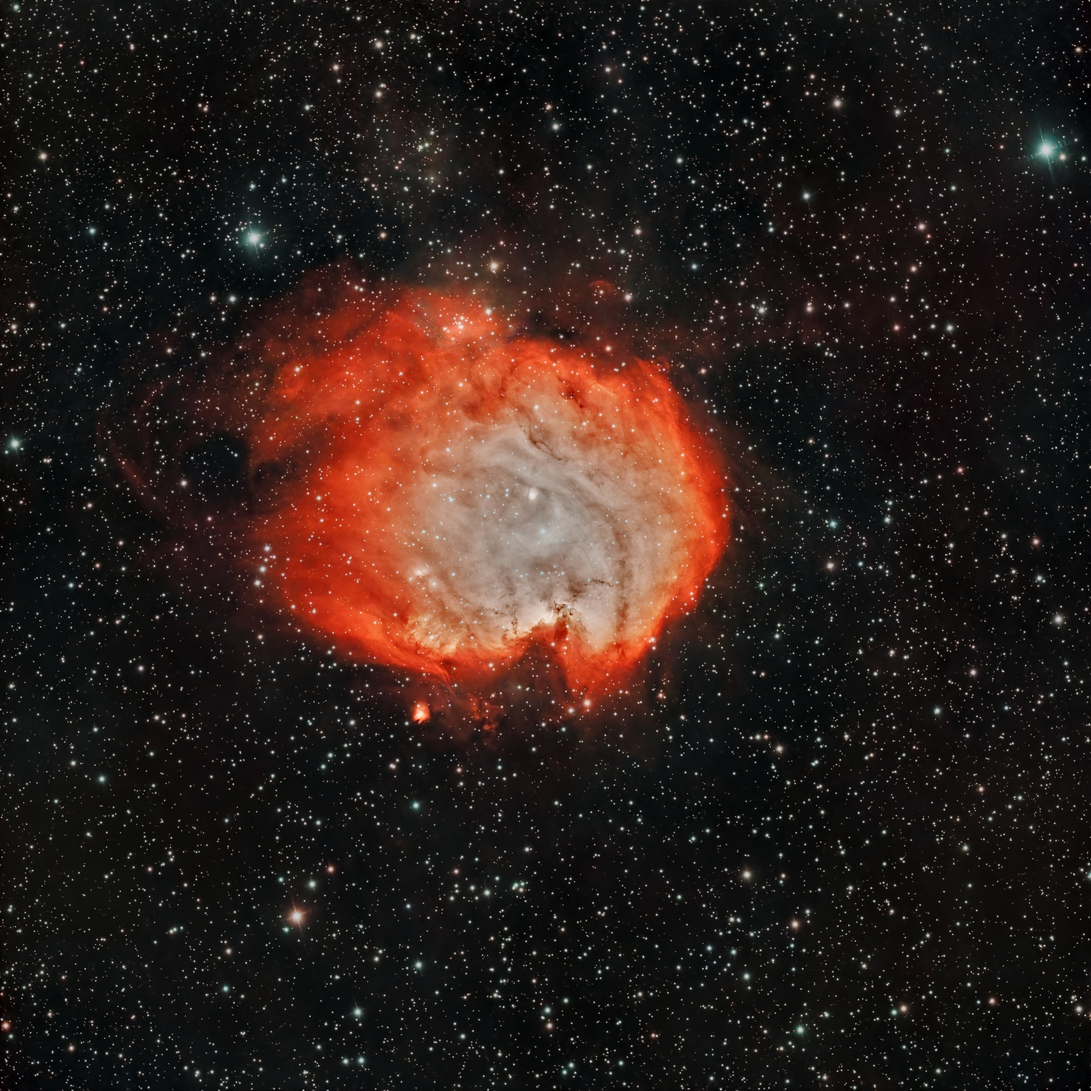
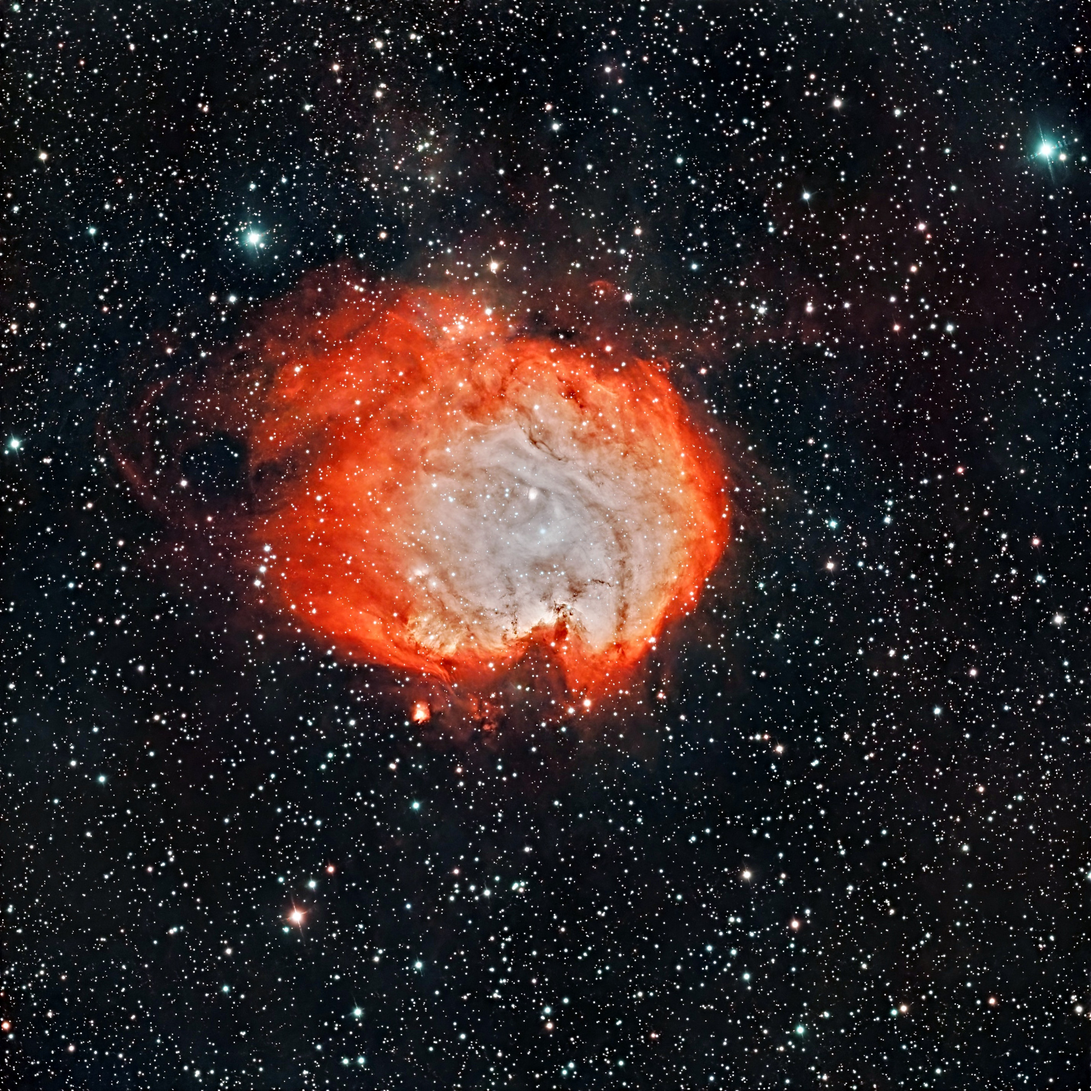
Monkey Head: Flame-style finish

diff --git a/monkey-head/index.html b/monkey-head/index.html
@@ -7,7 +7,7 @@
 <meta name="description" content="A star-forming cloud in Orion whose dark dust lanes trace the profile of a monkey&#x27;s head.">
 <meta property="og:title" content="NGC 2174 · Monkey Head Nebula · Night Sky">
 <meta property="og:description" content="A star-forming cloud in Orion whose dark dust lanes trace the profile of a monkey&#x27;s head.">
-<meta property="og:image" content="https://etotman.github.io/astro-gallery/img/monkey-head/display.jpg?v=4cce66d7"><meta name="twitter:card" content="summary_large_image">
+<meta property="og:image" content="https://etotman.github.io/astro-gallery/img/monkey-head/display.jpg?v=fe3655f9"><meta name="twitter:card" content="summary_large_image">
 <meta name="theme-color" content="#07080b">
 <link rel="icon" href="../assets/icon.svg" type="image/svg+xml">
 <link rel="stylesheet" href="../assets/style.css?v=bd09f262">
@@ -18,8 +18,8 @@
 <div class="layout">
 <div class="col">
 <figure class="hero">
-  <button class="zoom" type="button" data-full="../img/monkey-head/full.jpg?v=e4da7105" data-w="2857" data-h="2857" aria-label="Open full resolution">
-    <img src="../img/monkey-head/display.jpg?v=4cce66d7" width="2400" height="2400" alt="NGC 2174 · Monkey Head Nebula">
+  <button class="zoom" type="button" data-full="../img/monkey-head/full.jpg?v=b51c069d" data-w="2857" data-h="2857" aria-label="Open full resolution">
+    <img src="../img/monkey-head/display.jpg?v=fe3655f9" width="2400" height="2400" alt="NGC 2174 · Monkey Head Nebula">
   </button>
   <figcaption>Click the image for full resolution · 2857 × 2857 px</figcaption>
 </figure>
@@ -41,8 +41,8 @@
 </tr></tbody>
   </table></div>
 </section>
-  <section class="block"><h2>Processing</h2><p>Reprocessed 2026-11 from the linear stack: GraXpert AI background extraction, plate solve + SPCC, BlurXTerminator, NoiseXTerminator, stretch, StarXTerminator; starless layer pushed with saturation and local contrast; colour noise cleaned; stars screened back.</p></section>
-  <p class="dl"><a href="../img/monkey-head/full.jpg?v=e4da7105" download="monkey-head.jpg">Download full resolution (1.6 MB)</a></p>
+  <section class="block"><h2>Processing</h2><p>Reprocessed 2026-11 from the linear stack: GraXpert AI background extraction, plate solve + SPCC, BlurXTerminator, NoiseXTerminator, stretch, StarXTerminator; starless layer pushed with saturation and local contrast; colour noise cleaned; stars screened back. Final colour and tone in the style of the Flame + Horsehead edit: a cooler sky, lifted midtones, and increased saturation and local contrast.</p></section>
+  <p class="dl"><a href="../img/monkey-head/full.jpg?v=b51c069d" download="monkey-head.jpg">Download full resolution (2.2 MB)</a></p>
 </main>
 </div>
 <aside class="glance">

diff --git a/index.html b/index.html
@@ -139,8 +139,8 @@
   <img src="img/ngc2359/thumb.jpg?v=8199eecd" width="900" height="900" alt="NGC 2359 · Thor&#x27;s Helmet" loading="lazy" decoding="async">
   <span class="cap"><strong>NGC 2359 · Thor&#x27;s Helmet</strong><em>7.8 h · RASA8</em></span>
 </a>
-<a class="tile" href="monkey-head/" style="--r:1.0000;background:#1c1c1b">
-  <img src="img/monkey-head/thumb.jpg?v=252dc88a" width="900" height="900" alt="NGC 2174 · Monkey Head Nebula" loading="lazy" decoding="async">
+<a class="tile" href="monkey-head/" style="--r:1.0000;background:#1c1c1c">
+  <img src="img/monkey-head/thumb.jpg?v=ee62a6ea" width="900" height="900" alt="NGC 2174 · Monkey Head Nebula" loading="lazy" decoding="async">
   <span class="cap"><strong>NGC 2174 · Monkey Head Nebula</strong><em>8.3 h · RASA8</em></span>
 </a>
 <a class="tile" href="ldn1610/" style="--r:1.0000;background:#1c1918">
